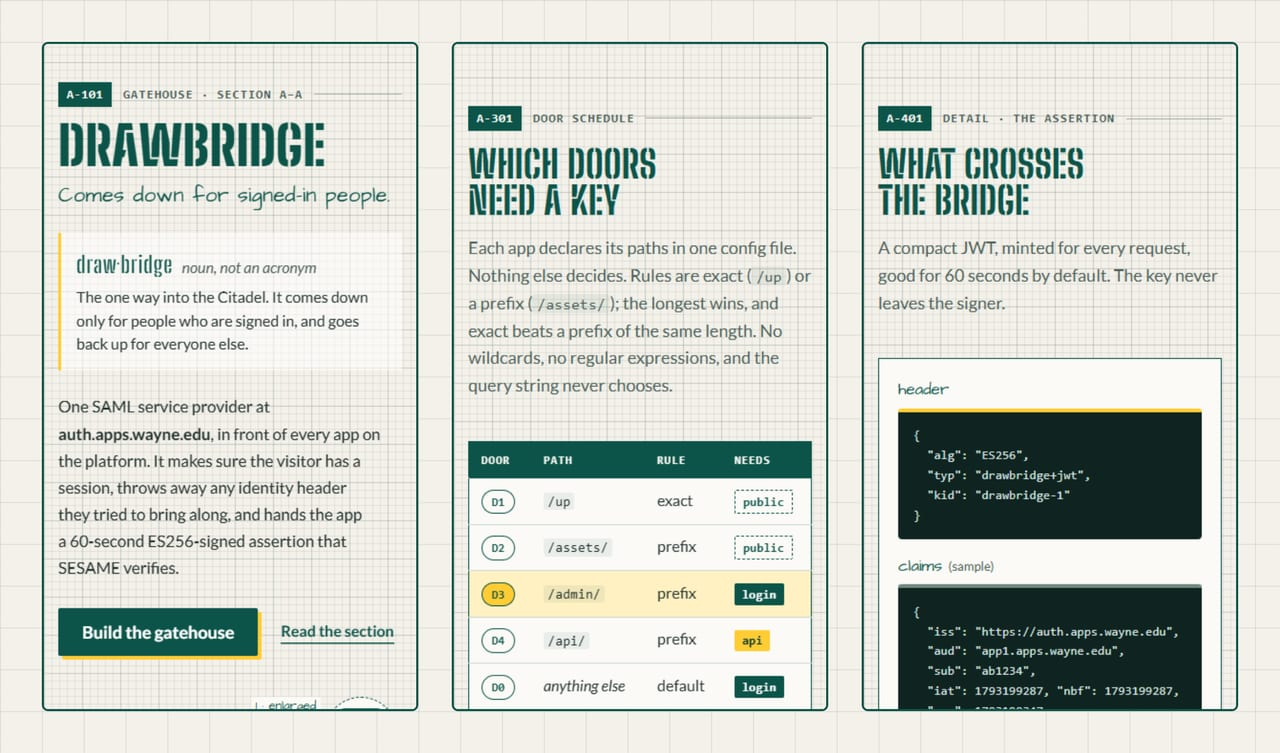
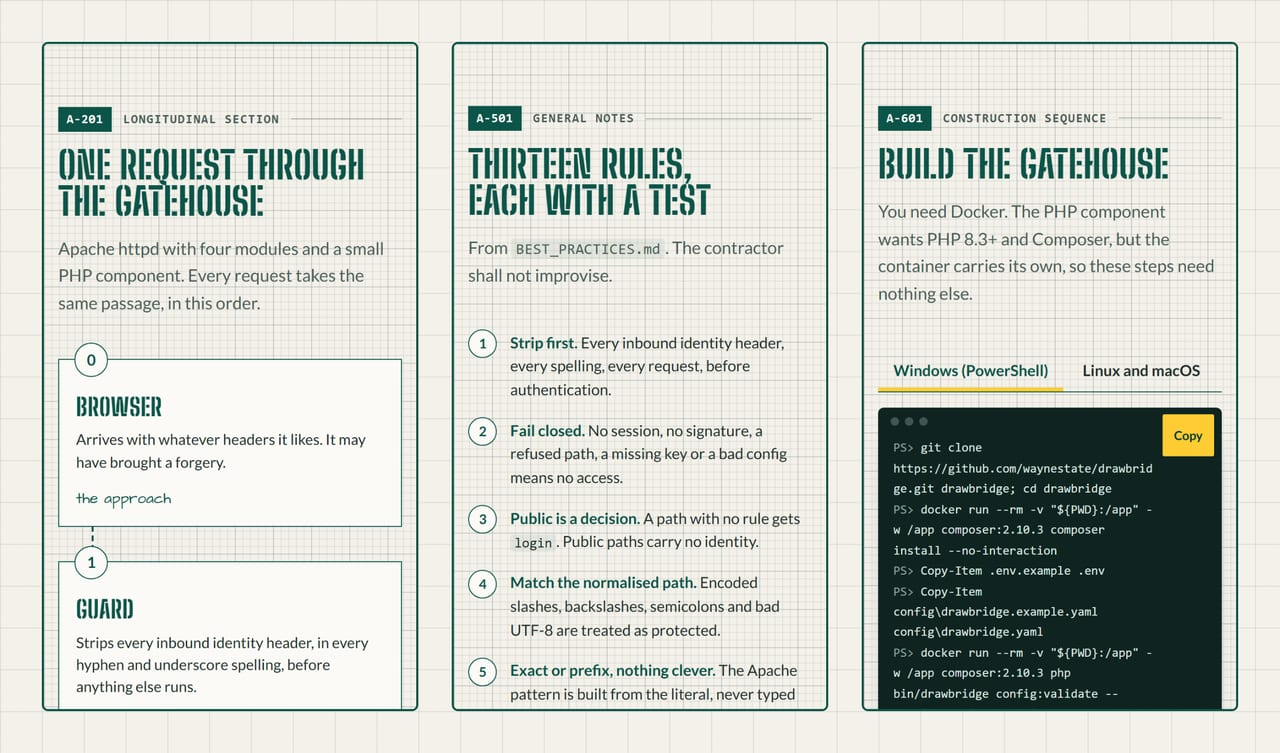
README art: hide internal host and platform mentions before screenshots, strict check restored

diff --git a/scripts/readme-art/README.md b/scripts/readme-art/README.md
@@ -26,13 +26,13 @@ network. Same inputs, same outputs.
 
 ## What it makes
 
-- `docs/readme/hero.jpg`: the hero sheet, with the site header hidden.
+- `docs/readme/hero.jpg`: the hero sheet, with the site header hidden. Any element whose text names an internal host or the platform is hidden first, and the build fails if forbidden text is still visible.
 - `docs/readme/gatehouse.svg`: section A-A, detail 1 enlarged. It inks itself
   in, strikes out a forged header and labels the guard, the OpenID Connect
   client and the signer. It holds still for `prefers-reduced-motion: reduce`.
   Fonts are embedded; it sits on its own opaque sheet so it reads on light and
   dark pages.
-- `docs/readme/gallery.jpg`: a contact sheet of three existing mobile crops.
+- `docs/readme/gallery.jpg`: a contact sheet of three live phone-width crops.
 - `docs/readme/board.jpg`: the brand board, re-encoded.
 - `docs/readme/cast/*.png`: one 96x96 mark per stack part.
 - `docs/readme/badges/*.svg`: `php`, `licence` and `assertion`, made locally by

diff --git a/README.md b/README.md
@@ -312,7 +312,7 @@ key, and the header `X-Sesame-Assertion`. Apps do not parse the token themselves
 <details>
 <summary><b>Sheets</b>: three windows onto the gatehouse</summary>
 <br>
-<div align="center"><img src="docs/readme/gallery.jpg" width="100%" alt="Three phone-width crops of the front page: the hero with the headline DRAWBRIDGE, the door schedule 'Which doors need a key' with its table of paths, and the assertion sheet 'What crosses the bridge' with the token's header and claims."></div>
+<div align="center"><img src="docs/readme/gallery.jpg" width="100%" alt="Three phone-width crops of the front page: the longitudinal section One request through the gatehouse with its first passage rooms, the general notes Thirteen rules each with a test, and the build sheet with the install commands."></div>
 </details>
 
 <details>
